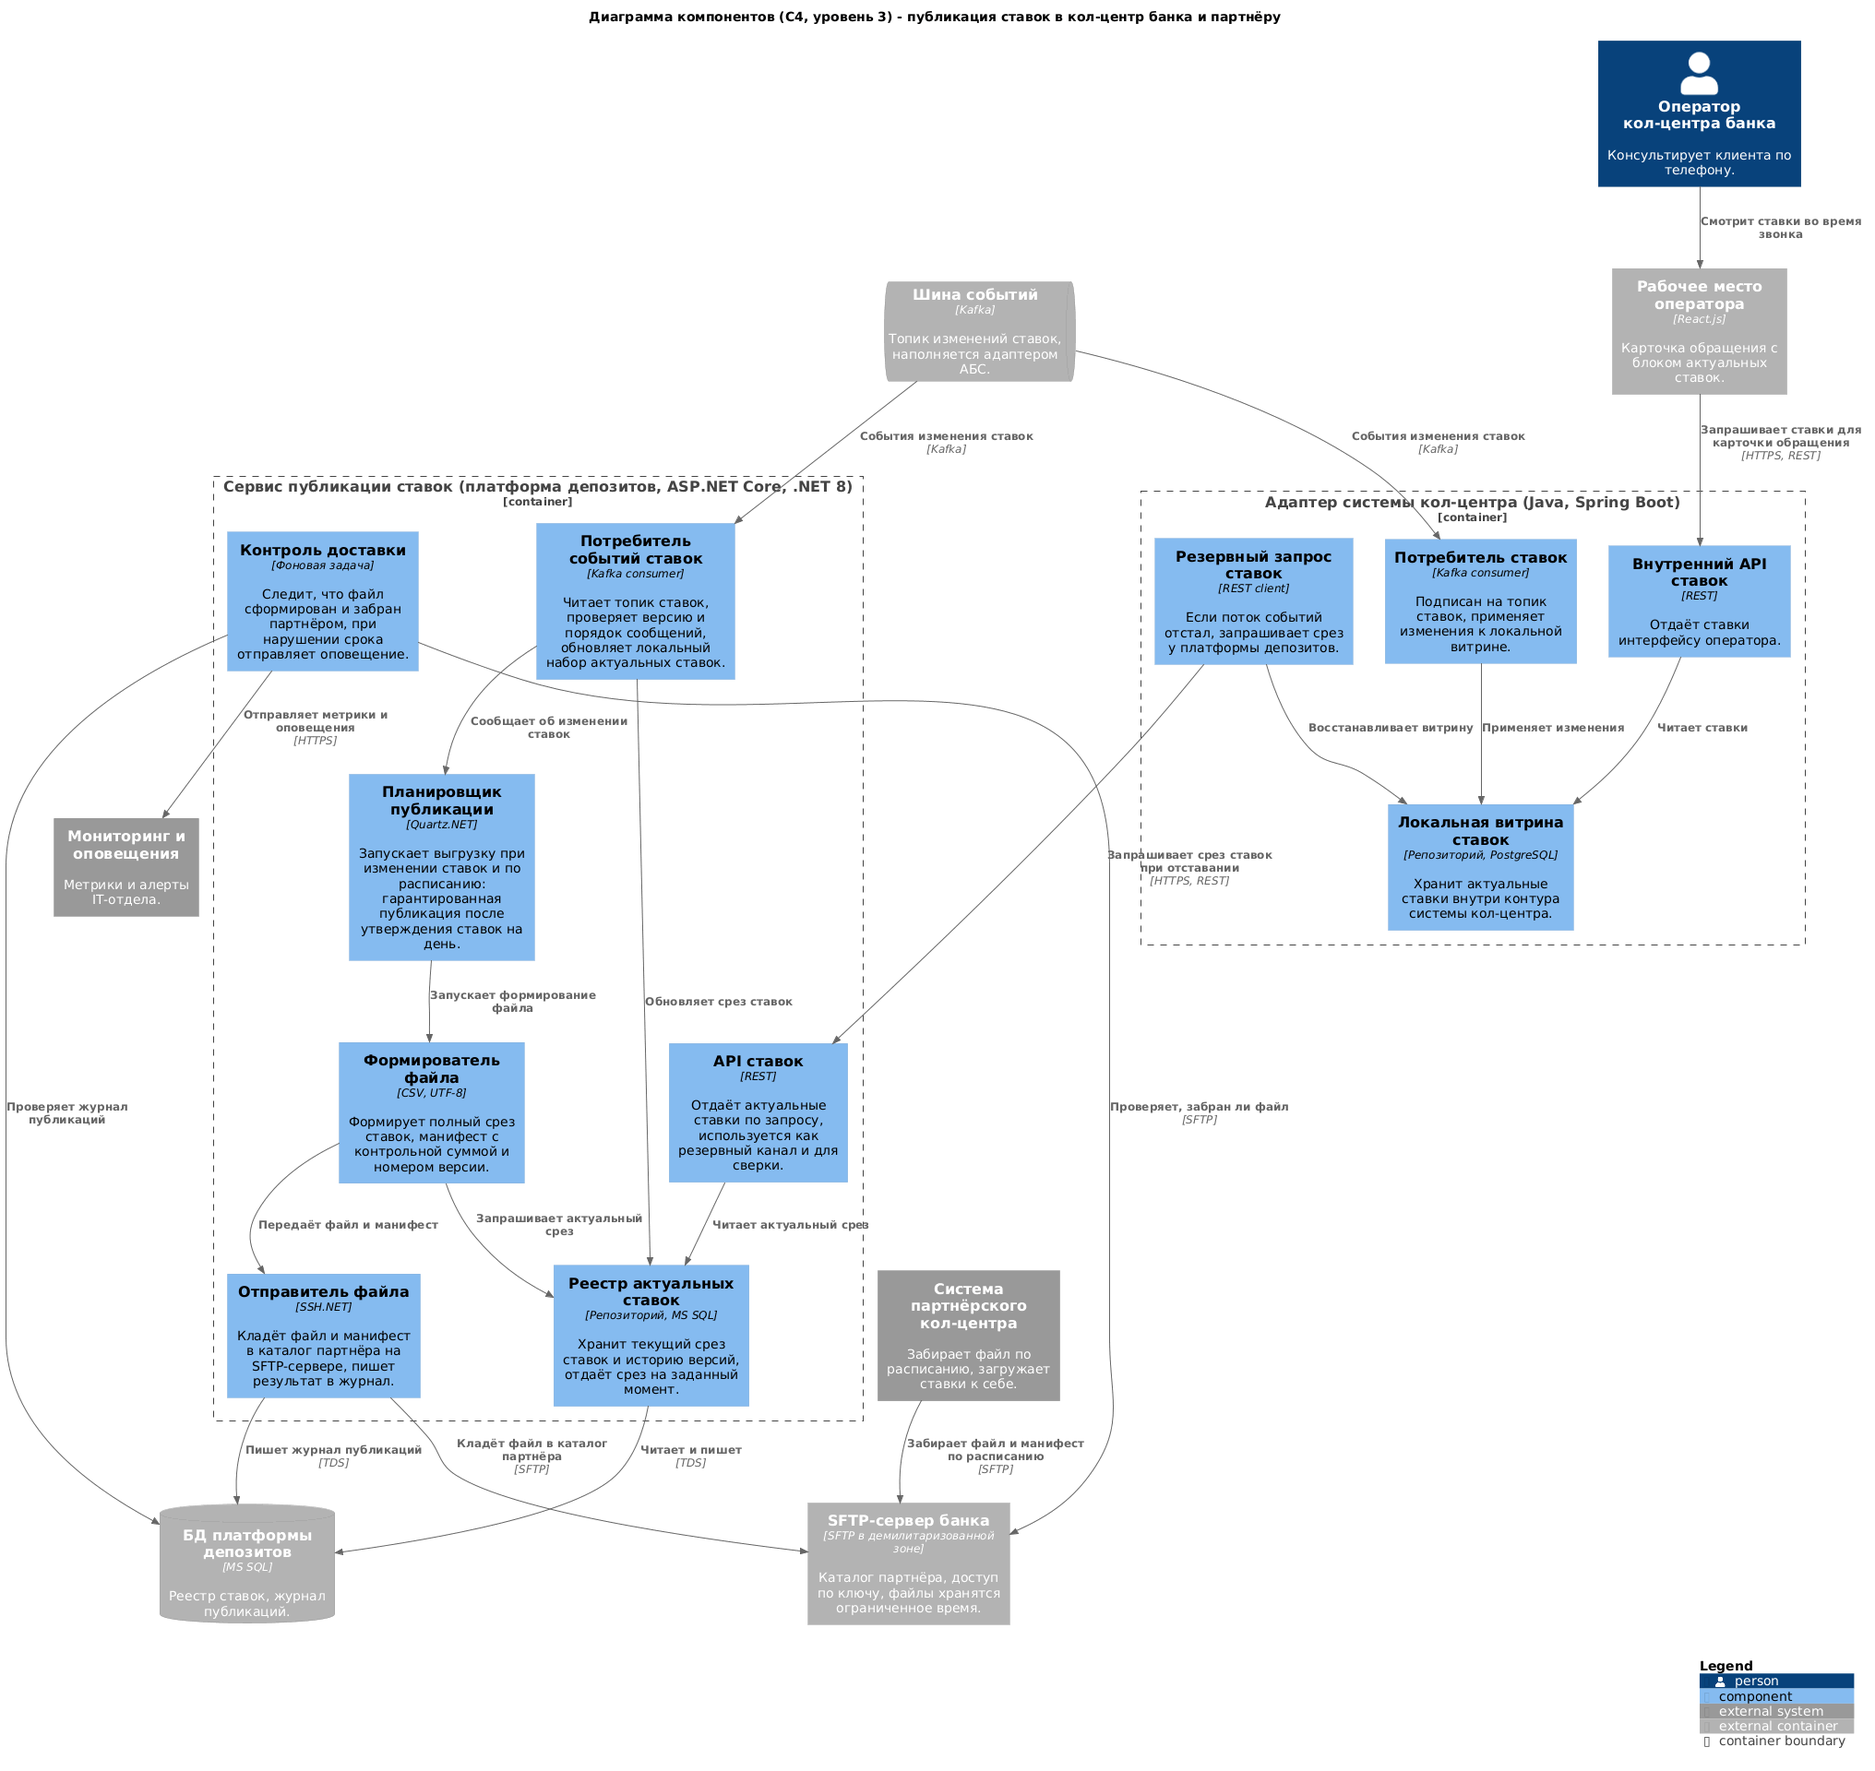
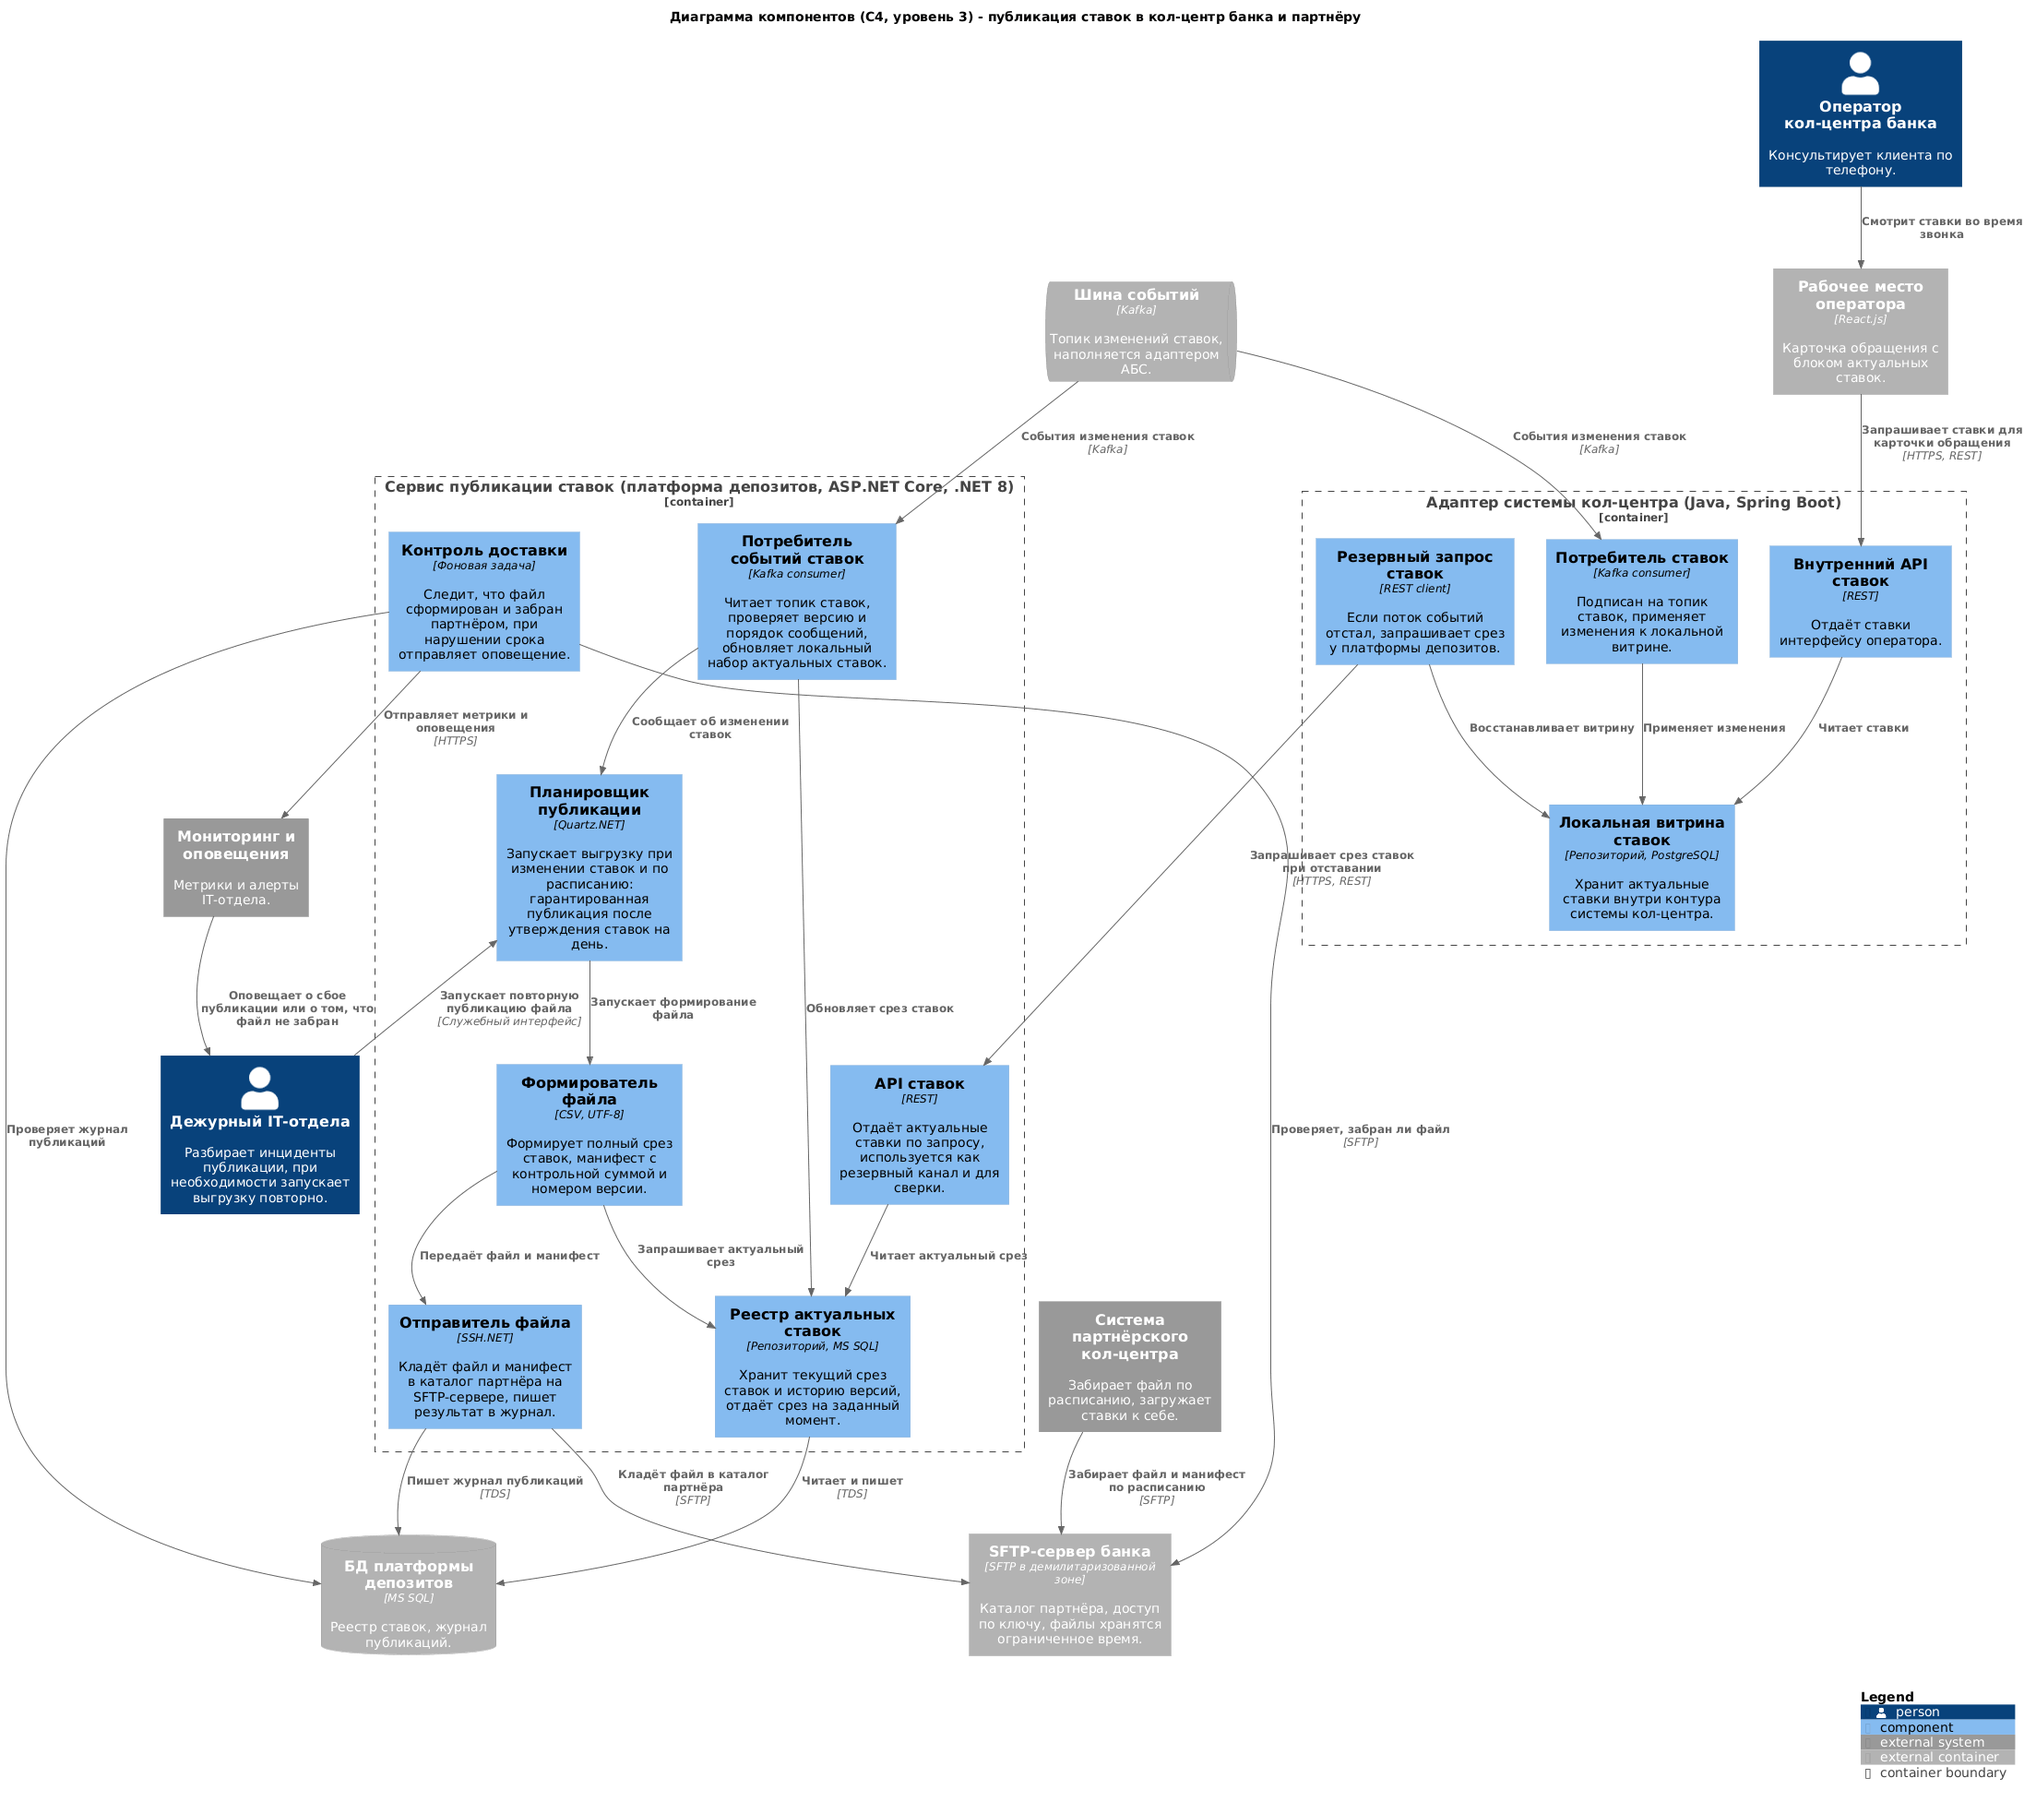
task-4: manual republish on diagrams, changes against mvp

diff --git a/Task4/task4-adr-rates-distribution.md b/Task4/task4-adr-rates-distribution.md
@@ -57,7 +57,9 @@
 
 Кол-центр банка получает ставки внутрь своего контура. Адаптер системы кол-центра подписывается на топик ставок и держит локальную витрину в PostgreSQL, а рабочее место оператора показывает ставки в карточке обращения. Оператор видит данные даже тогда, когда платформа депозитов недоступна, а сама платформа не получает нагрузку от 200 операторов.
 
-Партнёрский кол-центр находится вне контура банка и не может вызывать API, поэтому для него ставки выкладываются файлом. Сервис публикации ставок формирует полный срез в CSV вместе с манифестом и кладёт его на SFTP-сервер банка в демилитаризованной зоне, откуда партнёр забирает файл по своему расписанию.
+Партнёрский кол-центр находится вне контура банка и не может вызывать API, поэтому для него ставки выкладываются файлом. Для этого в платформе депозитов появляется новый контейнер - сервис публикации ставок. Он формирует полный срез в CSV вместе с манифестом и кладёт его на SFTP-сервер банка в демилитаризованной зоне, откуда партнёр забирает файл по своему расписанию.
+
+По сравнению с решением MVP состав систем меняется в трёх местах: в платформе депозитов добавляется сервис публикации ставок, в системе кол-центра расширяется существующий адаптер, который в MVP умел только принимать заявки с сайта, и в инфраструктуре появляется SFTP-сервер в демилитаризованной зоне. Остальные контейнеры используются без изменений.
 
 #### Диаграмма контекста
 
